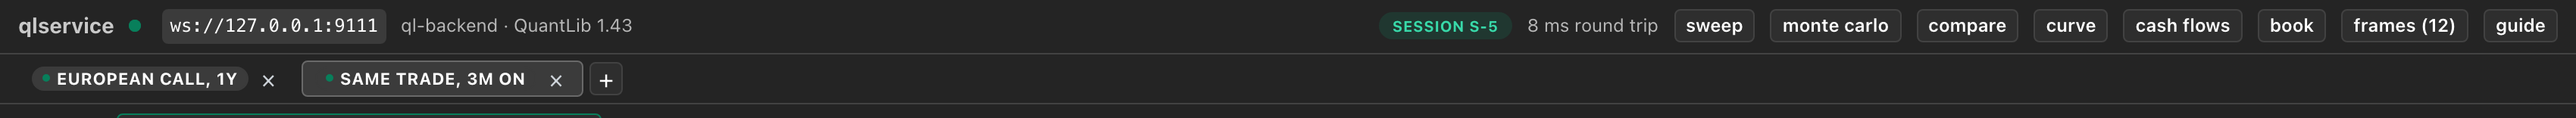
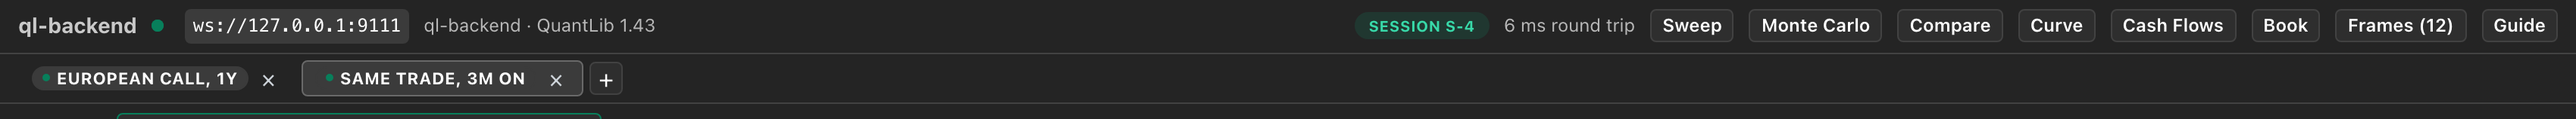
Show the capitalised status bar buttons in the docs and screenshots
The status bar's panel buttons now read Sweep, Monte Carlo, Compare, Curve,
Cash Flows, Book, Frames and Guide, and the docs quoted them in lowercase.
The README, the getting-started and interface pages and the short interface
guide now name them as the interface does, and the zh_TW catalogue moves with
the two translated pages.

Four screenshots showed the status bar, and all four are retaken against a
live backend at their original sizes: the status bar itself, the workbench,
the tab bar with its two named workbooks, and the status bar after a dropped
socket was taken back. Two of those, the tab bar and the resumed session,
still showed the old qlservice label as well, because they were missed when
that label was renamed. The alt text follows what each new capture shows,
including the session ids and round trips that changed with the retakes.

Claude-Session: https://claude.ai/code/session_01MJtVZSjTSgWshw7miPwQ9g

diff --git a/doc/interface.md b/doc/interface.md
@@ -15,17 +15,17 @@ Four full-width bands, and three columns between them:
 **The status bar** carries everything about the connection in one line: the
 service and the QuantLib it linked, the socket address, the session id, the
 round trip of the last request, and — while something is running — the cancel.
-The buttons on its right open the panels — sweep, Monte Carlo, compare,
-curve, cash flows, book and the frame inspector — and **guide**, which opens
+The buttons on its right open the panels — Sweep, Monte Carlo, Compare,
+Curve, Cash Flows, Book and the frame inspector — and **Guide**, which opens
 this document in a tab of its own.
 
 ```{figure} images/interface-statusbar.png
-:alt: The status bar: the name ql-backend with a green dot, the socket address ws://127.0.0.1:9111, the words ql-backend and QuantLib 1.43, then a session badge reading SESSION S-1, "4 ms round trip", and the panel buttons — sweep, monte carlo, compare, curve, cash flows, book, frames (8) — ending in guide.
+:alt: The status bar: the name ql-backend with a green dot, the socket address ws://127.0.0.1:9111, the words ql-backend and QuantLib 1.43, then a session badge reading SESSION S-1, "4 ms round trip", and the panel buttons — Sweep, Monte Carlo, Compare, Curve, Cash Flows, Book, Frames (8) — ending in Guide.
 :width: 100%
 
 The whole of the connection in one line: which service, which QuantLib it
 linked against, which socket, which session, and what the last request cost.
-`frames (8)` is the inspector, and it counts what has crossed the wire.
+`Frames (8)` is the inspector, and it counts what has crossed the wire.
 ```
 
 **The tab bar.** One workbook per tab, each with its own session on the same
@@ -123,7 +123,7 @@ own session, and a tab you are not looking at keeps its session open — coming
 back costs nothing and its graph is still warm.
 
 ```{figure} images/interface-tabs.png
-:alt: The status bar above the tab bar: a badge reading SESSION S-3 with an 8 ms round trip, and two workbook tabs — "European call, 1Y" and "Same trade, 3M on" — each carrying a green dot, the second selected, followed by a plus button.
+:alt: The status bar above the tab bar: a badge reading SESSION S-4 with a 6 ms round trip, and two workbook tabs — "European call, 1Y" and "Same trade, 3M on" — each carrying a green dot, the second selected, followed by a plus button.
 :width: 100%
 
 Two workbooks on one socket. The dot on a tab is its *session*, not the tab
@@ -144,7 +144,7 @@ says **socket lost — session held** while that is true, and marks the session
 **resumed** when it comes back.
 
 ```{figure} images/session-resumed.png
-:alt: The status bar after a dropped socket: the session badge reads SESSION S-2, with a RESUMED badge beside it.
+:alt: The status bar after a dropped socket: the session badge reads SESSION S-5, with a RESUMED badge beside it.
 :width: 100%
 
 The same session, after the socket was cut and the app took it back. The id is

diff --git a/README.md b/README.md
@@ -22,9 +22,9 @@ The reference check a moment after it ran: one live session, the trade it
 priced, and **12.459717** with the greeks beside it. The market is on the left,
 the session and the trade down the middle, the result on the right, and the
 quote bar along the bottom — that bar is the live one, and dragging it is the
-edit that costs nothing. The buttons at the top right open the panels — sweep,
-Monte Carlo, compare, curve, cash flows, book — between the columns and the
-quote bar, and **guide** at the end of that row opens the user's guide in a
+edit that costs nothing. The buttons at the top right open the panels — Sweep,
+Monte Carlo, Compare, Curve, Cash Flows, Book — between the columns and the
+quote bar, and **Guide** at the end of that row opens the user's guide in a
 tab of its own. [The interface](doc/interface.md) walks through all of it.
 
 ## What you can do with it
@@ -109,7 +109,7 @@ That writes both languages:
 
 Open it either of two ways.
 
-- **From the app.** With `npm run dev` running, press **guide** at the right of
+- **From the app.** With `npm run dev` running, press **Guide** at the right of
   the status bar, or go to
   <http://localhost:5173/doc/_build/html/index.html>. The dev server serves
   the guide from the project root, so this needs no second server.
@@ -121,7 +121,7 @@ formulas load MathJax from a CDN, so the maths pages need a network connection
 to render their equations; everything else reads offline.
 
 If `doc/.venv` is missing, `npm run docs` falls back to whatever `sphinx-build`
-is on `PATH` and builds the same pages in Sphinx's default theme. A **guide**
+is on `PATH` and builds the same pages in Sphinx's default theme. A **Guide**
 button that answers 404 means the guide has not been built yet.
 
 ### Where everything is

diff --git a/doc/UI.md b/doc/UI.md
@@ -10,7 +10,7 @@ than a preference.
 
 ```
 ┌──────────────────────────────────────────────────────────────────────┐
-│ ql-backend ● ws://…  s-3   cancel 1 in flight   4 ms   frames        │  status
+│ ql-backend ● ws://…  s-3   cancel 1 in flight   4 ms   Frames        │  status
 ├──────────────────────────────────────────────────────────────────────┤
 │ ● Workbook 1   ● Shocked +1d   +                                     │  tabs
 ├──────────────────────────────────────────────────────────────────────┤
@@ -77,7 +77,7 @@ not of the graph, so it costs a price and never a rebuild.
 | **add to book** on a trade | Sets it aside beside the live one; **price the book** sends them all in one frame |
 | **from last price** on the implied-volatility card | Fills in the NPV that came back last, which is the question that card exists for |
 | **cancel** in the status bar | Stops whatever is running, and the tooltip says what that costs |
-| **guide** in the status bar | Opens the user's guide (`doc/`) in a tab of its own |
+| **Guide** in the status bar | Opens the user's guide (`doc/`) in a tab of its own |
 
 ## Things the interface tells you that the schema does not
 

diff --git a/doc/getting-started.md b/doc/getting-started.md
@@ -83,7 +83,7 @@ what the application is *for*:
 
 ## Keep this open beside it
 
-The **guide** button at the right-hand end of the status bar opens this
+The **Guide** button at the right-hand end of the status bar opens this
 document in a tab of its own — a tab of its own on purpose, because navigating
 away drops the socket, and a session only outlives that for a minute.
 
